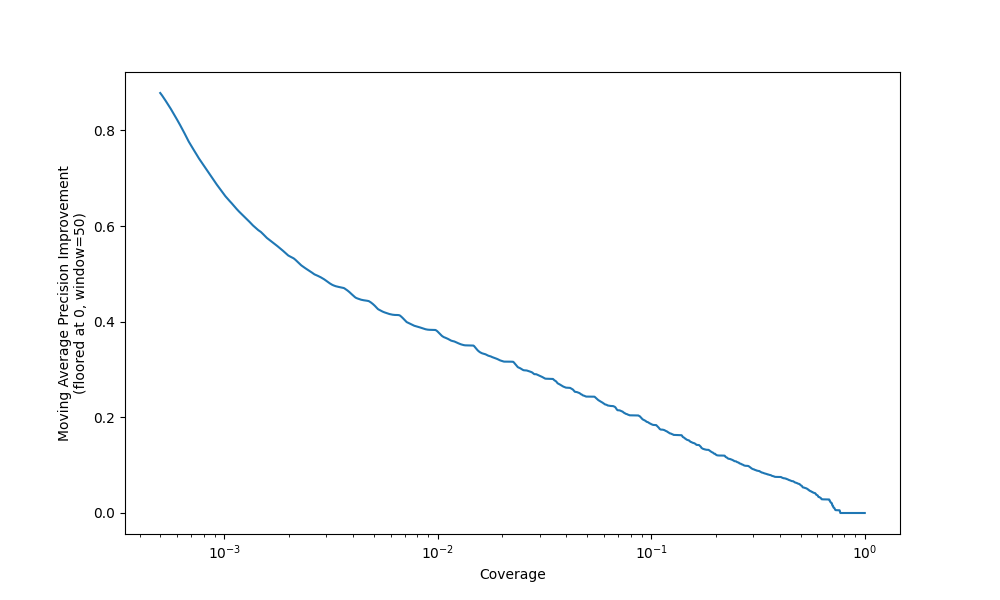
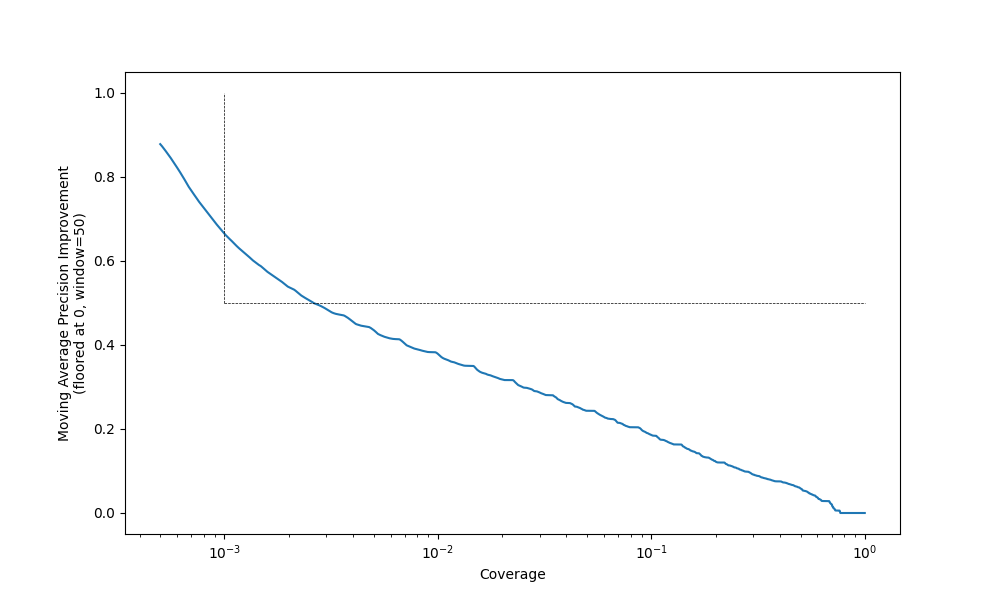
asd

diff --git a/suppress_threshold_attack.py b/suppress_threshold_attack.py
@@ -261,15 +261,20 @@ def plot_move_avg(df):
 
     # Compute the moving average
     df_sorted['moving_avg'] = df_sorted['pi_fl'].rolling(window=win).mean()
+    df_sorted['moving_avg5'] = df_sorted['pi_fl'].rolling(window=5).mean()
+    df_sorted['moving_avg200'] = df_sorted['pi_fl'].rolling(window=200).mean()
 
     # Compute the CDF
     df_sorted['cdf'] = (df_sorted.index + 1) / len(df_sorted)
 
     # Plot the moving average against the CDF
     plt.figure(figsize=(10, 6))
-    plt.plot(df_sorted['cdf'], df_sorted['moving_avg'])
-    plt.hlines(0.5, 0.001, 1, colors='black', linestyles='--', linewidth=0.5)
-    plt.vlines(0.001, 0.5, 1.0, colors='black', linestyles='--', linewidth=0.5)
+    plt.plot(df_sorted['cdf'], df_sorted['moving_avg'], label=50)
+    plt.plot(df_sorted['cdf'], df_sorted['moving_avg5'], label=5)
+    plt.plot(df_sorted['cdf'], df_sorted['moving_avg200'], label=200)
+    plt.hlines(0.5, 0.001, 1, colors='black', linestyles='--')
+    plt.vlines(0.001, 0.5, 1.0, colors='black', linestyles='--')
+    plt.legend(title='Window size', loc='lower left')
     plt.xscale('log')
     plt.xlabel('Coverage')
     plt.ylabel(f'Moving Average Precision Improvement\n(floored at 0, window={win})')
